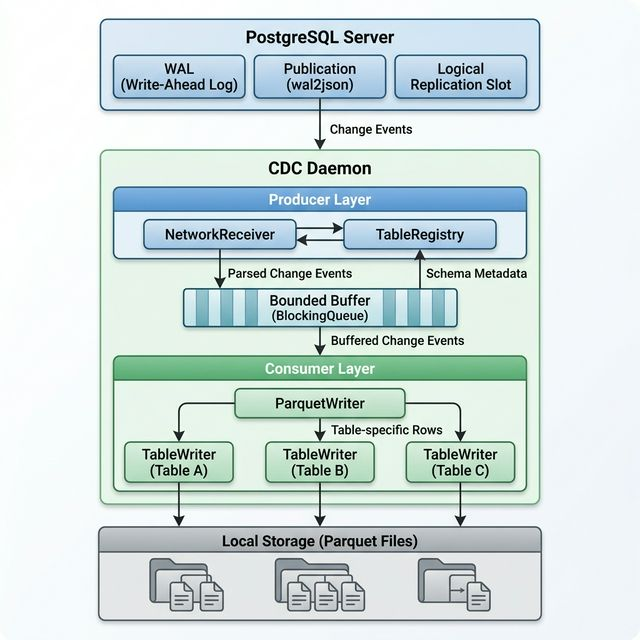
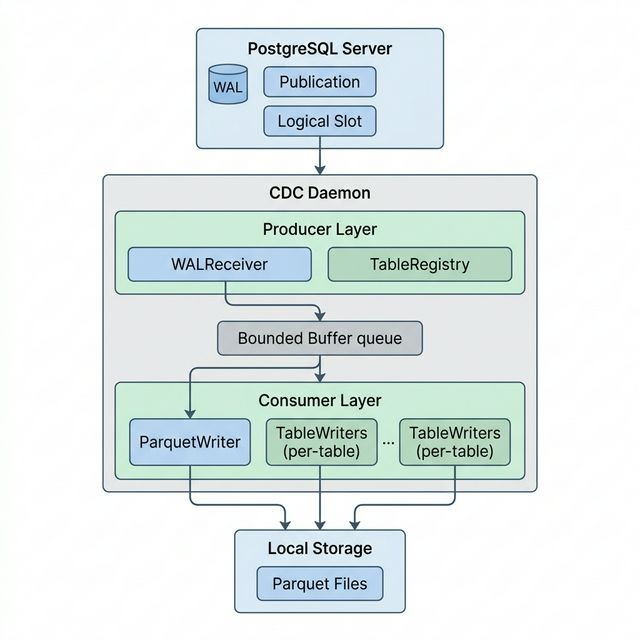
refactor: rename NetworkReceiver to WALReceiver for clarity

diff --git a/src/WALReceiver.cpp b/src/WALReceiver.cpp
@@ -1,25 +1,25 @@
-#include "NetworkReceiver.hpp"
+#include "WALReceiver.hpp"
 #include <iostream>
 #include <stdexcept>
 #include <cstring>
 #include <arpa/inet.h>
 
-NetworkReceiver::NetworkReceiver(const std::string& conninfo, BoundedBuffer<WalMessage>& buffer, std::shared_ptr<TableRegistry> registry)
+WALReceiver::WALReceiver(const std::string& conninfo, BoundedBuffer<WalMessage>& buffer, std::shared_ptr<TableRegistry> registry)
     : conninfo_(conninfo), buffer_(buffer), registry_(std::move(registry)), conn_(nullptr), keep_running_(true) {
 }
 
-NetworkReceiver::~NetworkReceiver() {
+WALReceiver::~WALReceiver() {
     stop();
     if (conn_) {
         PQfinish(conn_);
     }
 }
 
-void NetworkReceiver::stop() {
+void WALReceiver::stop() {
     keep_running_ = false;
 }
 
-void NetworkReceiver::fetchSchemas(PGconn* normal_conn) {
+void WALReceiver::fetchSchemas(PGconn* normal_conn) {
     std::cout << "Fetching schema definitions from PostgreSQL..." << std::endl;
     // We get columns for all tables in 'public' schema
     std::string query = 
@@ -71,7 +71,7 @@ void NetworkReceiver::fetchSchemas(PGconn* normal_conn) {
     std::cout << "Schema definitions successfully populated in registry." << std::endl;
 }
 
-void NetworkReceiver::connect() {
+void WALReceiver::connect() {
     PGconn* normal_conn = PQconnectdb(conninfo_.c_str());
     if (PQstatus(normal_conn) != CONNECTION_OK) {
         std::string err = PQerrorMessage(normal_conn);
@@ -104,7 +104,7 @@ void NetworkReceiver::connect() {
     std::cout << "Connected to PostgreSQL for logical replication." << std::endl;
 }
 
-void NetworkReceiver::startLogicalReplication() {
+void WALReceiver::startLogicalReplication() {
     const char* env_slot = std::getenv("PG_SLOT_NAME");
     const char* env_pub = std::getenv("PG_PUBLICATION_NAME");
     
@@ -123,7 +123,7 @@ void NetworkReceiver::startLogicalReplication() {
     std::cout << "Started logical replication stream on slot '" << slot_name << "'." << std::endl;
 }
 
-void NetworkReceiver::receiveLoop() {
+void WALReceiver::receiveLoop() {
     while (keep_running_) {
         char* copy_data = nullptr;
         int ret = PQgetCopyData(conn_, &copy_data, 0); // 0 = block waiting for data
@@ -142,7 +142,7 @@ void NetworkReceiver::receiveLoop() {
     }
 }
 
-void NetworkReceiver::handleCopyData(char* msg, int length) {
+void WALReceiver::handleCopyData(char* msg, int length) {
     if (length == 0) return;
     
     char msg_type = msg[0];
@@ -264,7 +264,7 @@ void NetworkReceiver::handleCopyData(char* msg, int length) {
     }
 }
 
-void NetworkReceiver::sendStandbyStatusUpdate() {
+void WALReceiver::sendStandbyStatusUpdate() {
     char reply[34];
     reply[0] = 'r';
     // For this simple example, we just send all 0s for LSNs and timestamps.
@@ -276,7 +276,7 @@ void NetworkReceiver::sendStandbyStatusUpdate() {
     }
 }
 
-void NetworkReceiver::run() {
+void WALReceiver::run() {
     connect();
     startLogicalReplication();
     receiveLoop();

diff --git a/src/main.cpp b/src/main.cpp
@@ -4,12 +4,12 @@
 #include <fstream>
 #include "BoundedBuffer.hpp"
 #include "TableRegistry.hpp"
-#include "NetworkReceiver.hpp"
+#include "WALReceiver.hpp"
 #include "ParquetWriter.hpp"
 #include <filesystem>
 
 // Global pointers for signal handler
-NetworkReceiver* g_receiver = nullptr;
+WALReceiver* g_receiver = nullptr;
 ParquetWriter* g_writer = nullptr;
 
 void signalHandler(int signum) {
@@ -78,7 +78,7 @@ int main(int argc, char* argv[]) {
         g_writer = &writer;
         writer.start();
 
-        NetworkReceiver receiver(conninfo, buffer, registry);
+        WALReceiver receiver(conninfo, buffer, registry);
         
         g_receiver = &receiver;
         receiver.run(); 

diff --git a/src/WALReceiver.hpp b/src/WALReceiver.hpp
@@ -13,10 +13,10 @@ struct WalMessage {
     std::vector<char> payload;
 };
 
-class NetworkReceiver {
+class WALReceiver {
 public:
-    NetworkReceiver(const std::string& conninfo, BoundedBuffer<WalMessage>& buffer, std::shared_ptr<TableRegistry> registry);
-    ~NetworkReceiver();
+    WALReceiver(const std::string& conninfo, BoundedBuffer<WalMessage>& buffer, std::shared_ptr<TableRegistry> registry);
+    ~WALReceiver();
 
     void run();
     void stop();

diff --git a/design.md b/design.md
@@ -16,8 +16,8 @@ The integrated test suite provides a full-stack environment to validate the pipe
 
 ## Core Components
 
-### 1. NetworkReceiver (Producer)
-The `NetworkReceiver` is the entry point for data ingestion.
+### 1. WALReceiver (Producer)
+The `WALReceiver` is the entry point for data ingestion.
 -   **Schema Fetching**: On startup, it queries `information_schema.columns` to build an initial mapping of table structures.
 -   **Replication Loop**: It uses `libpq` to establish a logical replication connection.
 -   **Message Handling**: It parses `pgoutput` messages:
@@ -52,7 +52,7 @@ A dedicated `test/` directory provides a high-speed ingestion framework:
 ```mermaid
 sequenceDiagram
     participant PG as PostgreSQL
-    participant NR as NetworkReceiver
+    participant NR as WALReceiver
     participant BB as BoundedBuffer
     participant PW as ParquetWriter
     participant TW as TableWriter
